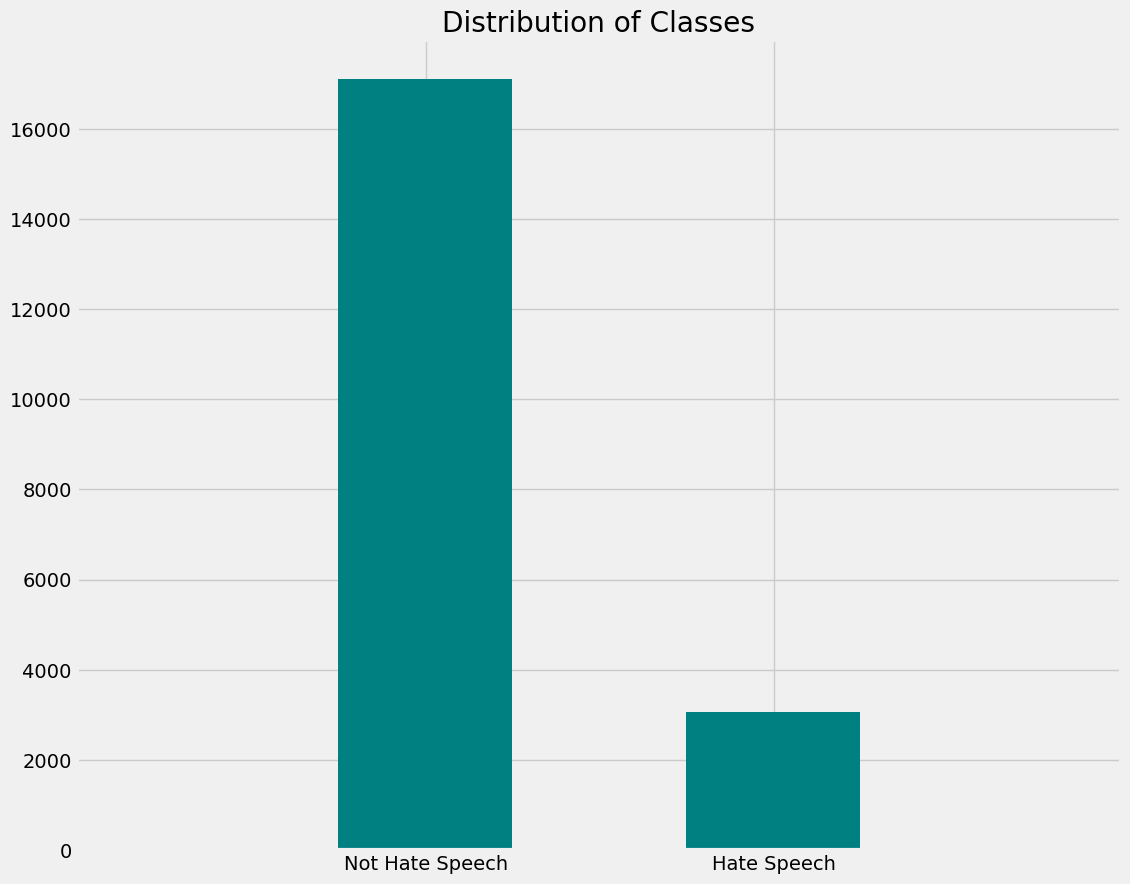
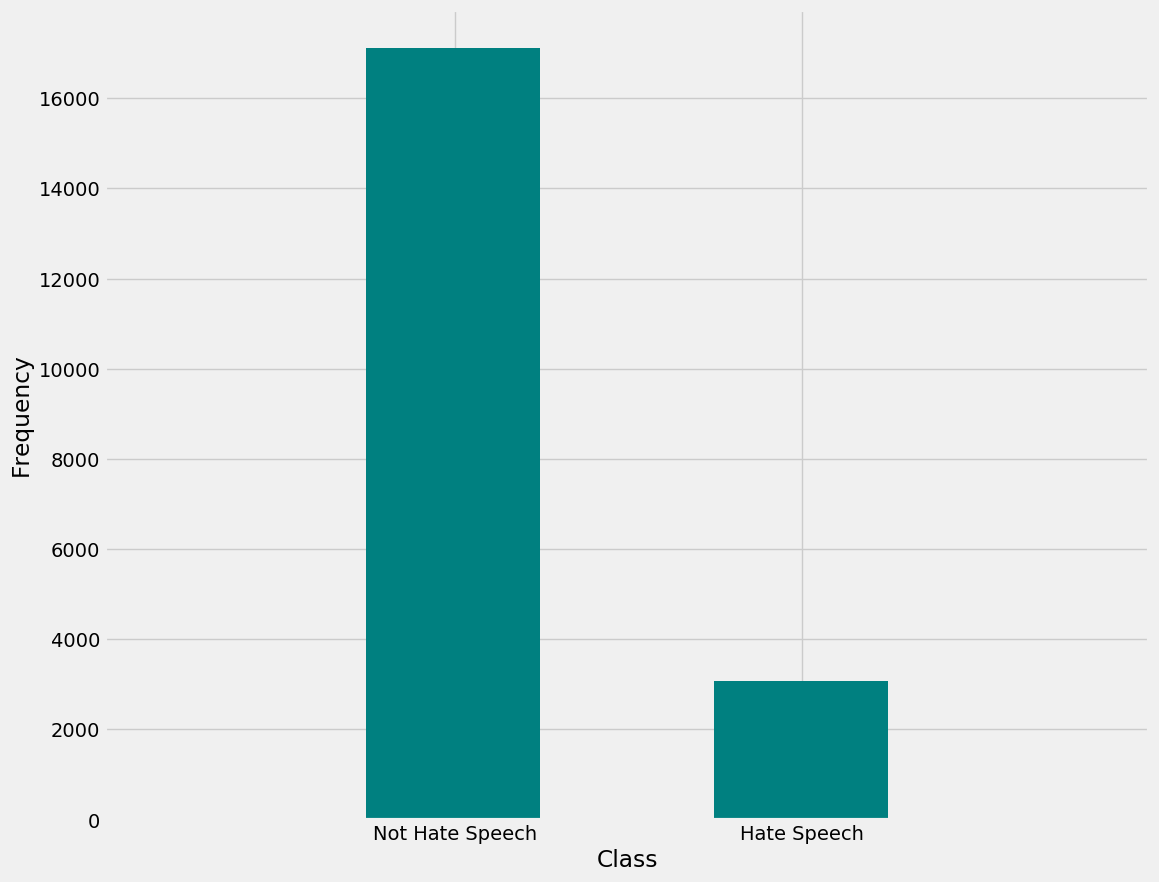
Label axes on class distribution chart

diff --git a/pre_training.py b/pre_training.py
@@ -113,7 +113,9 @@ def create_class_dist(train):
     ax.set_xticks([0.170, 0.835])
     ax.set_xticklabels(["Not Hate Speech", "Hate Speech"])
     train.hist(bins=3, ax=ax, color="teal")
-    plt.title("Distribution of Classes")
+    plt.title("")
+    plt.ylabel("Frequency")
+    plt.xlabel("Class")
     plt.savefig(DATA_DIR / "distribution_of_classes.png", bbox_inches="tight")
     plt.close()
 
